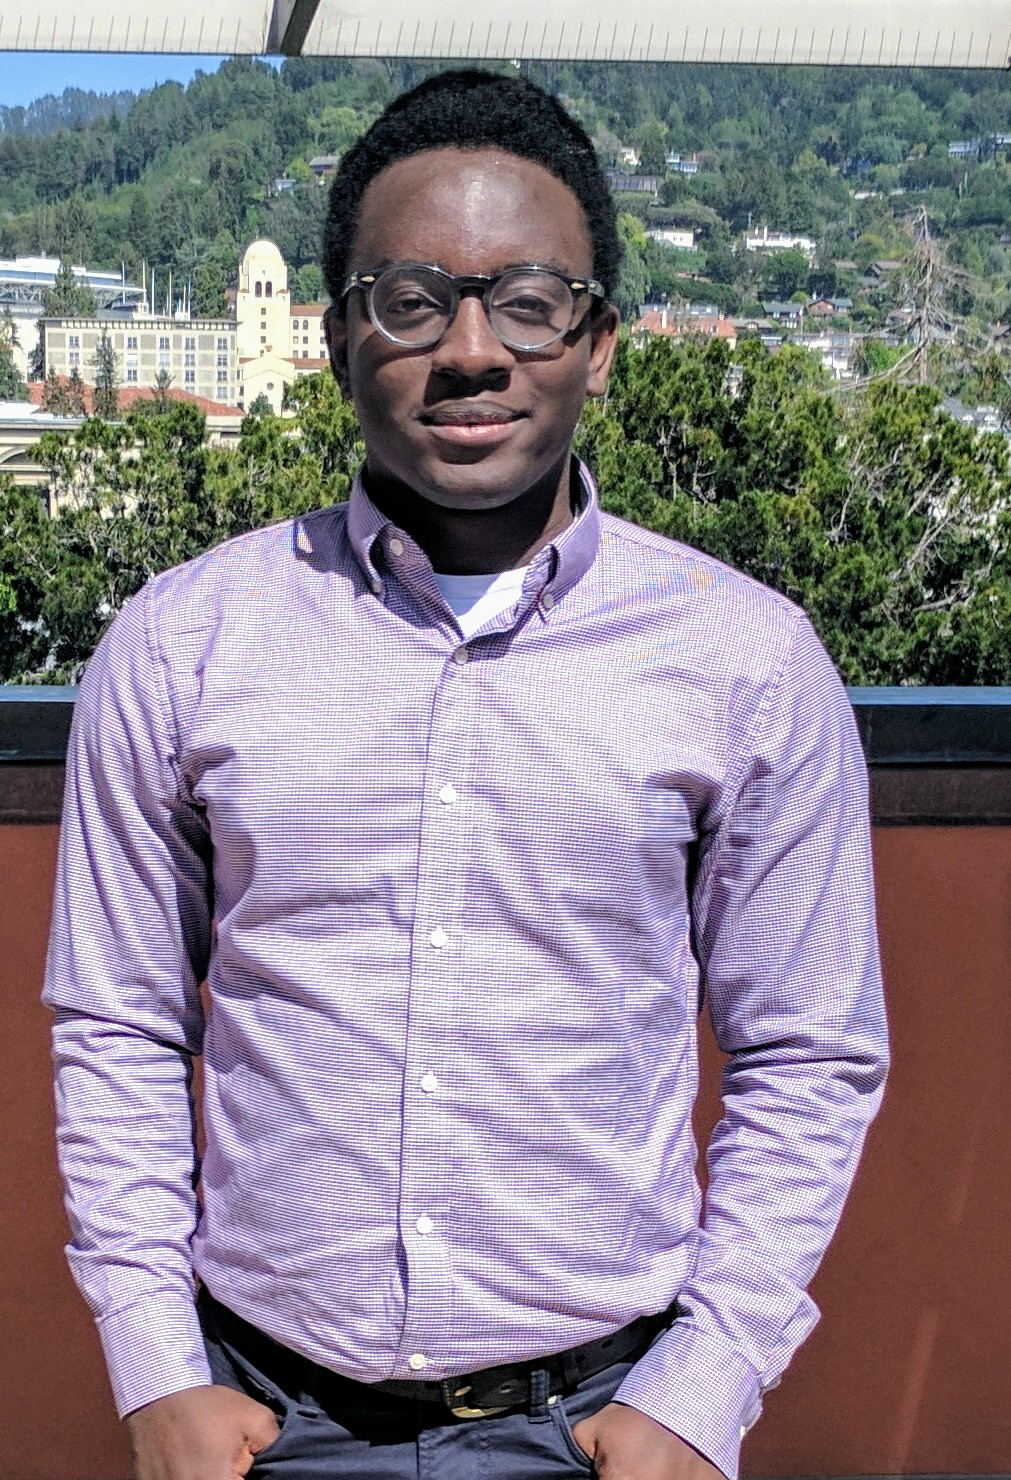
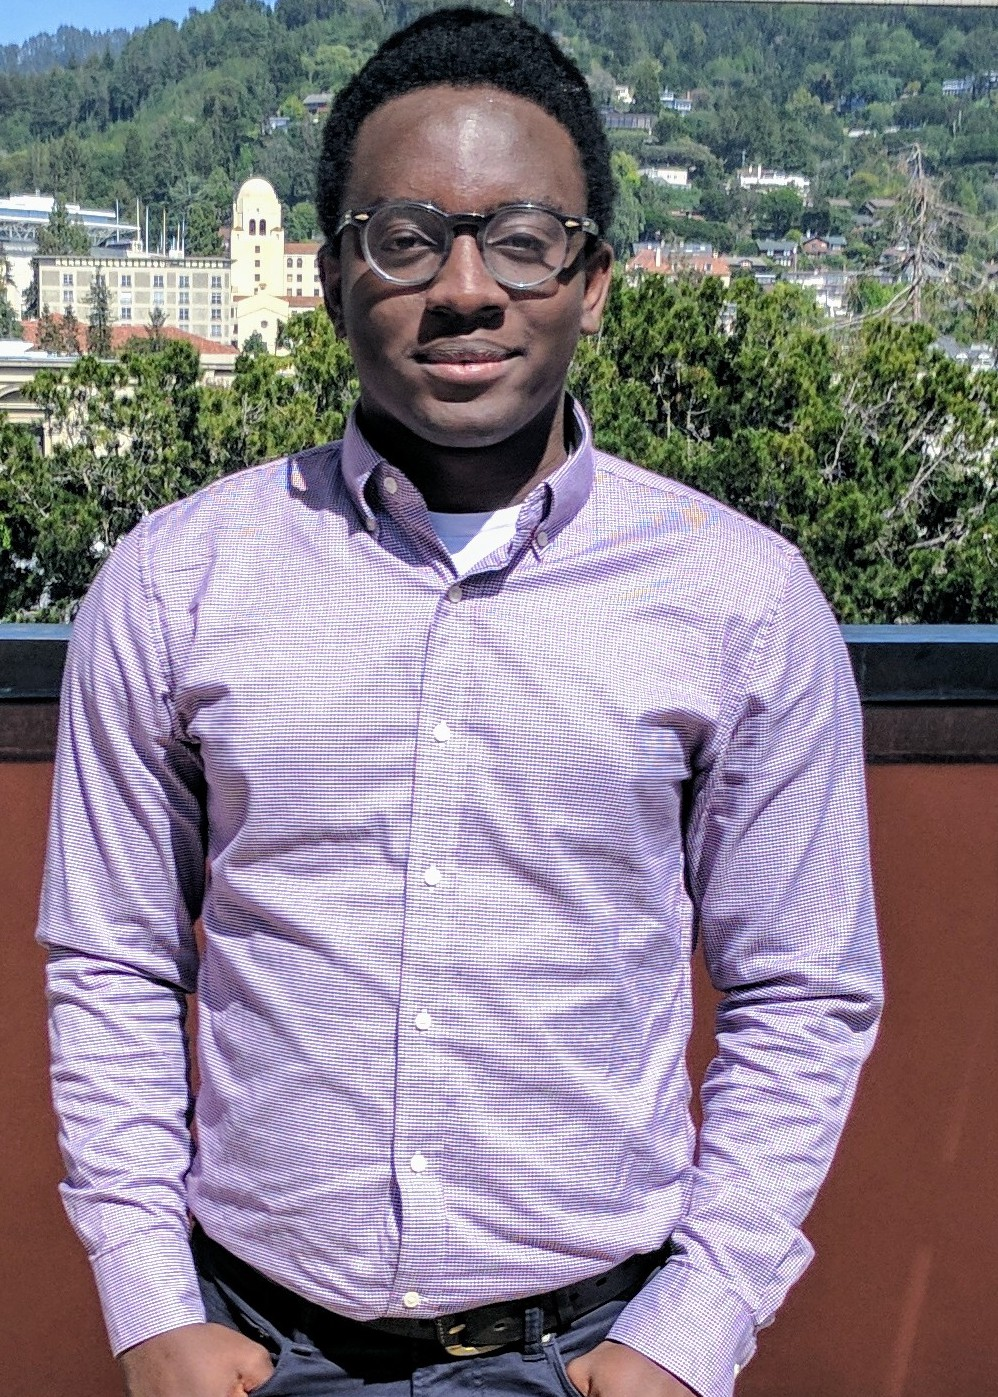
added pic

diff --git a/index.html b/index.html
@@ -23,7 +23,7 @@
 				<!-- Home -->
 					<article id="home" class="panel special">
 						<div class="image">
-							<img src="images/pic05.jpg" alt="" data-position="top center" />
+							<img src="images/pic05.jpg" alt="" data-position="center center" />
 						</div>
 						<div class="content">
 							<div class="inner">
